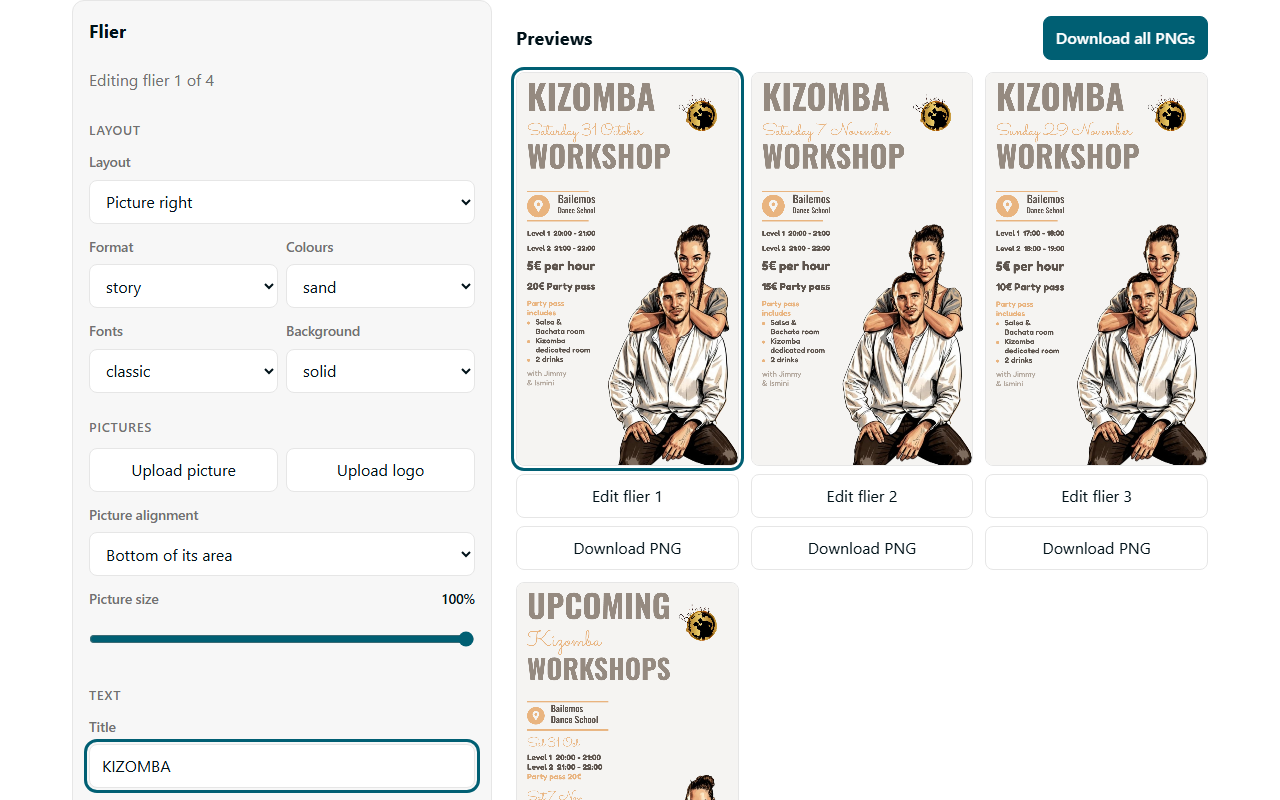
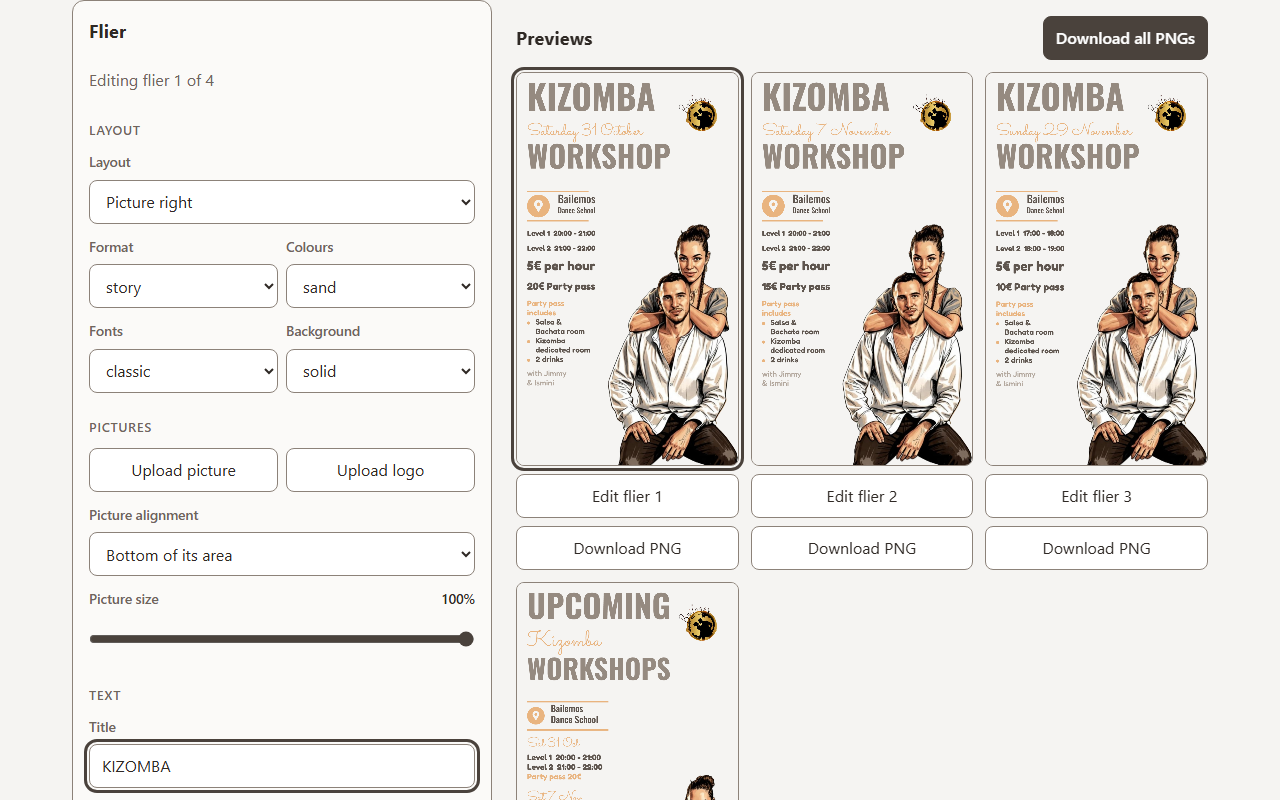
feat(FLIER-1): Flier Studio D8 "Mobile preview: L-A sticky mini-preview" + D7 "App palette: P-A Ink" via FLIER_TOKENS
Phones (<768): bar fixed to the bottom with a live thumbnail of the flier
being edited, "Flier n of total" and "See all n" (jumps to the previews);
tapping the thumbnail opens it full size in a dialog, Close focused on open.
Page bottom padded so the bar never covers the last controls. Desktop and
form order unchanged. Strings under mini.* in en.json.

design-tokens ^1.16.0: UI, manifest theme_color and page theme-color move
from KATALOGOS_TOKENS to FLIER_TOKENS.

Tests: miniPreview.test.ts, pwa.ac10 on FLIER_TOKENS, e2e
miniPreview.spec.ts at 360 and 1280. App capture pair re-recorded
(inventory 22/22, 0 misaligned rows, check-before-after 0 problems).

visual-review: docs/design/FLIER-1-app-picks/critique-2026-10-28-picks.md

diff --git a/src/ui/miniPreview.ts b/src/ui/miniPreview.ts
@@ -1,0 +1,81 @@
+import { FM } from '../i18n/fm';
+import { el, textButton } from './dom';
+
+const THUMB_BOX = { width: 54, height: 70 };
+const PIXEL_RATIO = 2;
+
+export interface Size {
+  readonly width: number;
+  readonly height: number;
+}
+
+export interface MiniPreviewActions {
+  seeAll: () => void;
+}
+
+export interface MiniPreview {
+  readonly bar: HTMLElement;
+  update: (source: HTMLCanvasElement | undefined, index: number, total: number) => void;
+}
+
+/** Fits a source size inside the thumbnail box, keeping its aspect ratio. */
+export function thumbSize(source: Size, box: Size = THUMB_BOX): Size {
+  if (source.width <= 0 || source.height <= 0) return box;
+  const scale = Math.min(box.width / source.width, box.height / source.height);
+  return { width: Math.round(source.width * scale), height: Math.round(source.height * scale) };
+}
+
+function copyInto(target: HTMLCanvasElement, source: HTMLCanvasElement, width: number, height: number): void {
+  target.width = width;
+  target.height = height;
+  target.getContext('2d')?.drawImage(source, 0, 0, width, height);
+}
+
+function setLabel(node: HTMLElement, label: string): void {
+  node.textContent = label;
+  node.setAttribute('aria-description', FM('hint.button', label));
+}
+
+function createSheet(): { dialog: HTMLDialogElement; show: (source: HTMLCanvasElement, index: number) => void } {
+  const full = el('canvas', { role: 'img' });
+  const close = textButton(FM('mini.close'), 'mini-close', () => dialog.close(), 'primary');
+  close.setAttribute('autofocus', '');
+  const dialog = el('dialog', { class: 'mini-sheet', 'data-testid': 'mini-sheet' }, [full, close]);
+  dialog.addEventListener('click', (event) => { if (event.target === dialog) dialog.close(); });
+  const show = (source: HTMLCanvasElement, index: number): void => {
+    copyInto(full, source, source.width, source.height);
+    const name = FM('mini.sheet', String(index + 1));
+    dialog.setAttribute('aria-label', name);
+    full.setAttribute('aria-label', name);
+    dialog.showModal();
+  };
+  return { dialog, show };
+}
+
+/** Phone-only bar fixed to the bottom: live thumbnail of the selected flier, tap for full size, jump to all previews. */
+export function createMiniPreview(actions: MiniPreviewActions): MiniPreview {
+  const thumb = el('canvas', { 'aria-hidden': 'true' });
+  const open = el('button', { type: 'button', class: 'mini-thumb', 'data-testid': 'mini-open' }, [thumb]);
+  const position = el('strong', { 'data-testid': 'mini-position' });
+  const seeAll = textButton('', 'mini-see-all', actions.seeAll);
+  const sheet = createSheet();
+  const shown = { source: undefined as HTMLCanvasElement | undefined, index: 0 };
+  open.addEventListener('click', () => { if (shown.source) sheet.show(shown.source, shown.index); });
+  const text = el('div', { class: 'mini-text' }, [position, el('span', { class: 'muted', text: FM('mini.label') })]);
+  const bar = el('aside', { class: 'mini-preview', 'data-testid': 'mini-preview', 'aria-label': FM('mini.bar') }, [open, text, seeAll, sheet.dialog]);
+
+  const update = (source: HTMLCanvasElement | undefined, index: number, total: number): void => {
+    Object.assign(shown, { source, index });
+    position.textContent = FM('mini.position', String(index + 1), String(total));
+    setLabel(seeAll, FM('mini.seeAll', String(total)));
+    const openLabel = FM('mini.open', String(index + 1));
+    open.setAttribute('aria-label', openLabel);
+    open.setAttribute('aria-description', FM('hint.button', openLabel));
+    if (!source) return;
+    const size = thumbSize(source);
+    copyInto(thumb, source, size.width * PIXEL_RATIO, size.height * PIXEL_RATIO);
+    thumb.style.width = `${String(size.width)}px`;
+    thumb.style.height = `${String(size.height)}px`;
+  };
+  return { bar, update };
+}

diff --git a/src/main.ts b/src/main.ts
@@ -1,4 +1,4 @@
-import { DEFAULT_CSS_VAR_NAMES, KATALOGOS_TOKENS, toCssVars } from '@dloizides/design-tokens';
+import { DEFAULT_CSS_VAR_NAMES, FLIER_TOKENS, toCssVars } from '@dloizides/design-tokens';
 import { PictureAnchor, type FlierDoc } from '@dloizides/poster-render';
 import { FM } from './i18n/fm';
 import { kizombaPreset } from './presets/kizomba';
@@ -8,6 +8,7 @@ import { WorkingDocStore } from './store/workingDocStore';
 import { AssetBook } from './ui/assets';
 import { renderConfigPanel } from './ui/configPanel';
 import { button, el } from './ui/dom';
+import { createMiniPreview } from './ui/miniPreview';
 import { focusTitle, renderForm } from './ui/formView';
 import { downloadCanvas, renderPreviews } from './ui/previews';
 import { renderPromptPanel } from './ui/promptPanel';
@@ -23,7 +24,7 @@ const state = { docs: working.load() ?? kizombaPreset(), selected: 0, canvases: 
 const assets = new AssetBook(new ImageStore());
 const configs = new ConfigStore();
 
-document.head.append(el('style', { text: toCssVars(KATALOGOS_TOKENS, DEFAULT_CSS_VAR_NAMES) }));
+document.head.append(el('style', { text: toCssVars(FLIER_TOKENS, DEFAULT_CSS_VAR_NAMES) }));
 if (window.matchMedia('(prefers-color-scheme: dark)').matches) document.documentElement.dataset.theme = 'dark';
 
 const status = el('p', { class: 'muted', role: 'status', 'aria-live': 'polite', 'data-testid': 'status' });
@@ -31,6 +32,7 @@ const formBox = el('section', { class: 'card', 'data-testid': 'flier-form' });
 const previewGrid = el('div', { class: 'preview-grid' });
 const configBox = el('section', { class: 'card' });
 const promptBox = el('section', { class: 'card' });
+const mini = createMiniPreview({ seeAll: () => previewGrid.closest('section')?.scrollIntoView({ block: 'start' }) });
 
 let timer: number | undefined;
 function refreshPreviews(): void {
@@ -39,6 +41,7 @@ function refreshPreviews(): void {
   timer = window.setTimeout(async () => {
     const book = await assets.forDocs(state.docs);
     state.canvases = await renderPreviews(previewGrid, state.docs, book, { selected: state.selected, select });
+    mini.update(state.canvases[state.selected], state.selected, state.docs.length);
   }, RENDER_DELAY_MS);
 }
 
@@ -94,6 +97,7 @@ async function start(): Promise<void> {
   app.replaceChildren(
     el('header', {}, [el('h1', { text: FM('app.title') }), el('p', { class: 'lead', text: FM('app.lead') }), status]),
     el('main', {}, [el('div', { class: 'controls' }, [promptBox, formBox, configBox]), previews]),
+    mini.bar,
   );
   renderPromptPanel(promptBox, (doc) => apply([doc]));
   renderConfigPanel(configBox, configs, { current: () => state.docs, apply, status: (m) => { status.textContent = m; } });

diff --git a/e2e/miniPreview.spec.ts b/e2e/miniPreview.spec.ts
@@ -1,0 +1,64 @@
+import { expect, test } from '@playwright/test';
+
+test.describe('mini preview bar', () => {
+  test.beforeEach(async ({ page }) => {
+    await page.goto('/');
+    await page.locator('canvas').first().waitFor();
+  });
+
+  test('at 360 the bar names flier 1 of 4 and see all jumps to the previews', async ({ page }, info) => {
+    test.skip(info.project.name !== 'mobile');
+    const bar = page.getByTestId('mini-preview');
+
+    await page.getByTestId('mini-see-all').click();
+
+    await expect(bar).toBeVisible();
+    await expect(page.getByTestId('mini-position')).toHaveText('Flier 1 of 4');
+    await expect(page.getByTestId('mini-see-all')).toHaveText('See all 4');
+    await expect(page.getByTestId('preview-1')).toBeInViewport();
+  });
+
+  test('at 360 tapping the thumbnail opens the flier full size and close shuts it', async ({ page }, info) => {
+    test.skip(info.project.name !== 'mobile');
+    await expect(page.getByTestId('mini-position')).toHaveText('Flier 1 of 4');
+
+    await page.getByTestId('mini-open').click();
+
+    const sheet = page.getByTestId('mini-sheet');
+    await expect(sheet).toBeVisible();
+    await expect(page.getByTestId('mini-close')).toBeFocused();
+    const full = await sheet.locator('canvas').boundingBox();
+    expect(full?.width ?? 0).toBeGreaterThan(200);
+    await page.getByTestId('mini-close').click();
+    await expect(sheet).toBeHidden();
+  });
+
+  test('at 360 selecting flier 2 moves the bar to flier 2 of 4', async ({ page }, info) => {
+    test.skip(info.project.name !== 'mobile');
+
+    await page.getByTestId('edit-2').click();
+
+    await expect(page.getByTestId('mini-position')).toHaveText('Flier 2 of 4');
+  });
+
+  test('at 360 the bar never covers the last control on the page', async ({ page }, info) => {
+    test.skip(info.project.name !== 'mobile');
+
+    await page.evaluate(() => window.scrollTo(0, document.documentElement.scrollHeight));
+
+    const barTop = (await page.getByTestId('mini-preview').boundingBox())?.y ?? 0;
+    const lastBottom = await page.locator('main').evaluate((main) => {
+      const controls = [...main.querySelectorAll('button, select, input:not([type=file]), textarea, label.file')];
+      return Math.max(...controls.map((c) => c.getBoundingClientRect().bottom));
+    });
+    expect(lastBottom).toBeLessThanOrEqual(barTop);
+  });
+
+  test('at 1280 there is no bar and the layout is unchanged', async ({ page }, info) => {
+    test.skip(info.project.name !== 'desktop');
+
+    const bar = page.getByTestId('mini-preview');
+
+    await expect(bar).toBeHidden();
+  });
+});

diff --git a/src/ui/miniPreview.test.ts b/src/ui/miniPreview.test.ts
@@ -1,0 +1,59 @@
+import { describe, expect, it, vi } from 'vitest';
+import { createMiniPreview, thumbSize } from './miniPreview';
+
+describe('thumbSize', () => {
+  it('with a 1080x1350 post, fits it 54 wide and keeps the ratio', () => {
+    const source = { width: 1080, height: 1350 };
+
+    const size = thumbSize(source);
+
+    expect(size).toEqual({ width: 54, height: 68 });
+  });
+
+  it('with a 1080x1920 story, fits it 70 high and keeps the ratio', () => {
+    const source = { width: 1080, height: 1920 };
+
+    const size = thumbSize(source);
+
+    expect(size).toEqual({ width: 39, height: 70 });
+  });
+
+  it('with an empty source, returns the whole box', () => {
+    const source = { width: 0, height: 0 };
+
+    const size = thumbSize(source, { width: 54, height: 70 });
+
+    expect(size).toEqual({ width: 54, height: 70 });
+  });
+});
+
+describe('createMiniPreview', () => {
+  it('with flier 2 of 4 selected, names the position and the see-all count', () => {
+    const mini = createMiniPreview({ seeAll: () => undefined });
+
+    mini.update(undefined, 1, 4);
+
+    expect(mini.bar.querySelector('[data-testid="mini-position"]')?.textContent).toBe('Flier 2 of 4');
+    expect(mini.bar.querySelector('[data-testid="mini-see-all"]')?.textContent).toBe('See all 4');
+  });
+
+  it('with a tap on see all, calls the see-all action', () => {
+    const seeAll = vi.fn();
+    const mini = createMiniPreview({ seeAll });
+    mini.update(undefined, 0, 4);
+
+    mini.bar.querySelector<HTMLButtonElement>('[data-testid="mini-see-all"]')?.click();
+
+    expect(seeAll).toHaveBeenCalledTimes(1);
+  });
+
+  it('with a 1080x1920 flier canvas, sizes the thumbnail to 39x70', () => {
+    const mini = createMiniPreview({ seeAll: () => undefined });
+    const source = Object.assign(document.createElement('canvas'), { width: 1080, height: 1920 });
+
+    mini.update(source, 0, 1);
+
+    const thumb = mini.bar.querySelector<HTMLCanvasElement>('[data-testid="mini-open"] canvas');
+    expect([thumb?.style.width, thumb?.style.height]).toEqual(['39px', '70px']);
+  });
+});

diff --git a/src/ui/styles.css b/src/ui/styles.css
@@ -97,3 +97,44 @@ figcaption.row > * { flex: 1 1 100%; }
   .previews { position: sticky; top: 16px; }
   .preview-grid { grid-template-columns: repeat(auto-fill, minmax(200px, 1fr)); }
 }
+
+:root { --mini-bar: 104px; }
+
+body { padding-bottom: calc(var(--mini-bar) + env(safe-area-inset-bottom)); }
+
+.mini-preview {
+  position: fixed;
+  left: 0;
+  right: 0;
+  bottom: 0;
+  z-index: 10;
+  display: flex;
+  align-items: center;
+  gap: 12px;
+  padding: 8px 16px calc(8px + env(safe-area-inset-bottom));
+  background: var(--surface-elevated);
+  border-top: 1px solid var(--border);
+}
+.mini-preview > button { width: auto; flex: 0 0 auto; }
+.mini-preview > .mini-thumb { width: 56px; height: 72px; padding: 0; border-radius: 4px; background: var(--surface); }
+.mini-thumb canvas { display: block; }
+.mini-text { flex: 1 1 auto; min-width: 0; display: grid; font-size: 0.85rem; line-height: 1.3; }
+.mini-text .muted { margin: 0; }
+
+.mini-sheet {
+  border: 0;
+  border-radius: var(--radius);
+  padding: var(--gap);
+  background: var(--surface);
+  color: var(--text);
+  max-width: calc(100vw - 32px);
+  max-height: calc(100dvh - 32px);
+}
+.mini-sheet[open] { display: grid; gap: 12px; justify-items: center; }
+.mini-sheet::backdrop { background: color-mix(in srgb, var(--text) 60%, transparent); }
+.mini-sheet canvas { display: block; max-width: 100%; max-height: calc(100dvh - 140px); width: auto; height: auto; border-radius: 8px; }
+
+@media (min-width: 768px) {
+  body { padding-bottom: 0; }
+  .mini-preview { display: none; }
+}

diff --git a/tests/pwa.ac10.test.ts b/tests/pwa.ac10.test.ts
@@ -1,7 +1,7 @@
 import { existsSync, readFileSync } from 'node:fs';
 import { createRequire } from 'node:module';
 import { join } from 'node:path';
-import { KATALOGOS_TOKENS } from '@dloizides/design-tokens';
+import { FLIER_TOKENS } from '@dloizides/design-tokens';
 import { buildManifest, generateServiceWorker } from '@dloizides/pwa-sw';
 import { describe, expect, it } from 'vitest';
 import { withThemeColor } from '../scripts/themeColor';
@@ -13,7 +13,7 @@ const LLM_EXTENSIONS = ['.bin', '.gguf', '.wasm', '.json', '.safetensors', '.onn
 
 describe('buildManifest', () => {
   it('with the app config, names the app and takes its theme colour from the tokens', () => {
-    const expected = { name: 'Flier Studio', short_name: 'Fliers', theme_color: KATALOGOS_TOKENS.dark.background, display: 'standalone', start_url: '/' };
+    const expected = { name: 'Flier Studio', short_name: 'Fliers', theme_color: FLIER_TOKENS.dark.background, display: 'standalone', start_url: '/' };
 
     const manifest = buildManifest(config.manifest);
 

diff --git a/docs/design/FLIER-1-build/index.html b/docs/design/FLIER-1-build/index.html
@@ -16,7 +16,7 @@ img { border: 1px solid; max-width: 100%; height: auto; }
 <body>
 <h1>FLIER-1 "Flier Studio" app form: before (1fde6fa) and after</h1>
 <p>Same route, state, fixture, viewport, scroll anchor and crop per pair; only the build differs. Records: <a href="result.json">result.json</a>, written by build-result.mjs from frames/*.json (e2e/appCapture.spec.ts).</p>
-<article data-option="app" data-inventory="21/21" data-aligned="pass" data-result="result.json">
+<article data-option="app" data-inventory="22/22" data-aligned="pass" data-result="result.json">
 <h2>360x640, full height</h2>
 <div class="pair">
 <figure data-visual="before"><img src="app-before-360-full.png" alt="Before, 360 full height"><figcaption>Before</figcaption></figure>
